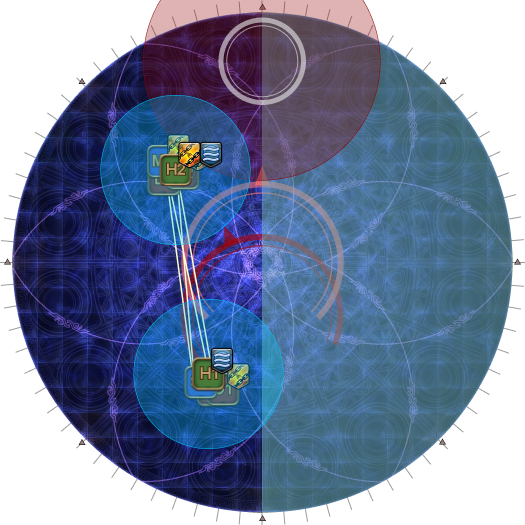
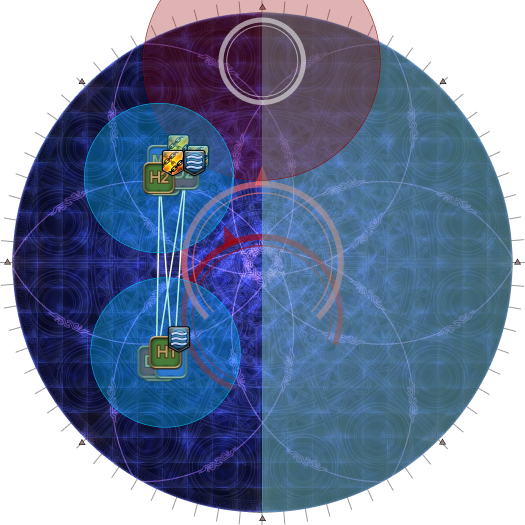
Clarify Dark Water stack positions in Darklit

Changed region(s): [[0.1524, 0.1829, 0.5486, 0.8533]]

diff --git a/_ultimates/fru/04_gaia_and_shiva.md b/_ultimates/fru/04_gaia_and_shiva.md
@@ -212,8 +212,13 @@ We can now continue with the mechanic.
       <p><b>10.</b> The Usurper of Frost will then use <em>Hallowed Wings</em>,
       which will cleave either the West or East half of the arena.</p>
       <p>The <em>Water III</em> debuffs will also resolve roughly at the same
-      time, so stack up on the safe half of the arena.</p>
-      <p><b>Do not spread too close to the Fragment of Fate!</b></p>
+      time, so stack up on <b>the two intercardinal markers on the safe half of
+      the arena.</b></p>
+      <ul>
+        <li>This will be far enough to not trigger the tethers while also avoiding the Fragment of Fate.</li>
+        <li>The south group can move closer to the south marker to give some
+        extra margin of error if needed.</li>
+      </ul>
     </td>
     <td>
       <img src="{{site.baseurl}}/images/ultimates/fru/04/darklit_07.jpg">
